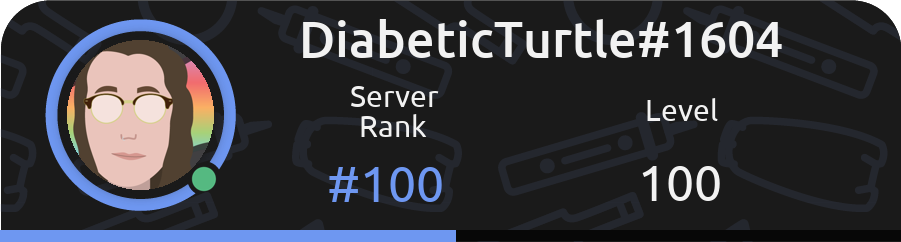
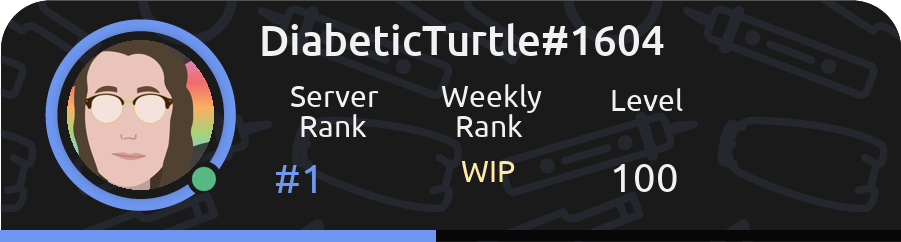
Moved text and added wip

diff --git a/disrank/generator.py b/disrank/generator.py
@@ -72,9 +72,9 @@ class Generator:
         # Editing stuff here
 
         # ======== Fonts to use =============
-        font_normal = ImageFont.truetype(self.UbuntuR, 50)
+        font_normal = ImageFont.truetype(self.UbuntuR, 40)
         font_med = ImageFont.truetype(self.UbuntuR, 30)
-        font_large = ImageFont.truetype(self.UbuntuB, 50)
+        font_large = ImageFont.truetype(self.UbuntuB, 42)
         font_small = ImageFont.truetype(self.UbuntuR, 20)
         font_signa = ImageFont.truetype(self.font2, 25)
 
@@ -92,12 +92,15 @@ class Generator:
                 return str(round(xp / 1000000, 1)) + "M"
 
         draw = ImageDraw.Draw(card)
-        draw.text((350, 79), "Server", WHITE, font=font_med)
-        draw.text((359, 109), "Rank", WHITE, font=font_med)
-        draw.text((299, 10), user_name, WHITE, font=font_large)
-        draw.text((327, 155), f"#{user_position}", DARK, font=font_normal)
-        draw.text((645, 93), f"Level", WHITE, font=font_med)
-        draw.text((638, 154), f"{level}", WHITE, font=font_normal)
+        draw.text((290, 79), "Server", WHITE, font=font_med)
+        draw.text((299, 109), "Rank", WHITE, font=font_med)
+        draw.text((441, 79), "Weekly", WHITE, font=font_med)
+        draw.text((455, 109), "Rank", WHITE, font=font_med)
+        draw.text((461, 154), "WIP", YELLOW, font=font_med)
+        draw.text((259, 15), user_name, WHITE, font=font_large)
+        draw.text((274, 155), f"#{user_position}", DARK, font=font_normal)
+        draw.text((610, 83), f"Level", WHITE, font=font_med)
+        draw.text((610, 154), f"{level}", WHITE, font=font_normal)
         
                 
         # Adding another blank layer for the progress bar
@@ -112,7 +115,7 @@ class Generator:
         xphave = user_xp - current_xp
 
         current_percentage = (xphave / xpneed) * 100
-        length_of_bar = (current_percentage * 8) + 100 
+        length_of_bar = (current_percentage * 8) + 80 
         
         blank_draw.rectangle((-1, 230, length_of_bar, 900), fill=DARK)
         

diff --git a/testing.py b/testing.py
@@ -14,7 +14,7 @@ args = {
 			'current_xp' : 10, # Current level minimum xp 
 			'user_xp' : 50, # User current xp
 			'next_xp' : 100, # xp required for next level
-			'user_position' : 100, # User position in leaderboard
+			'user_position' : 1, # User position in leaderboard
 			'user_name' : "DiabeticTurtle#1604", # user name with descriminator 
 			'user_status' : "online", # User status eg. online, offline, idle, streaming, dnd
 		}
